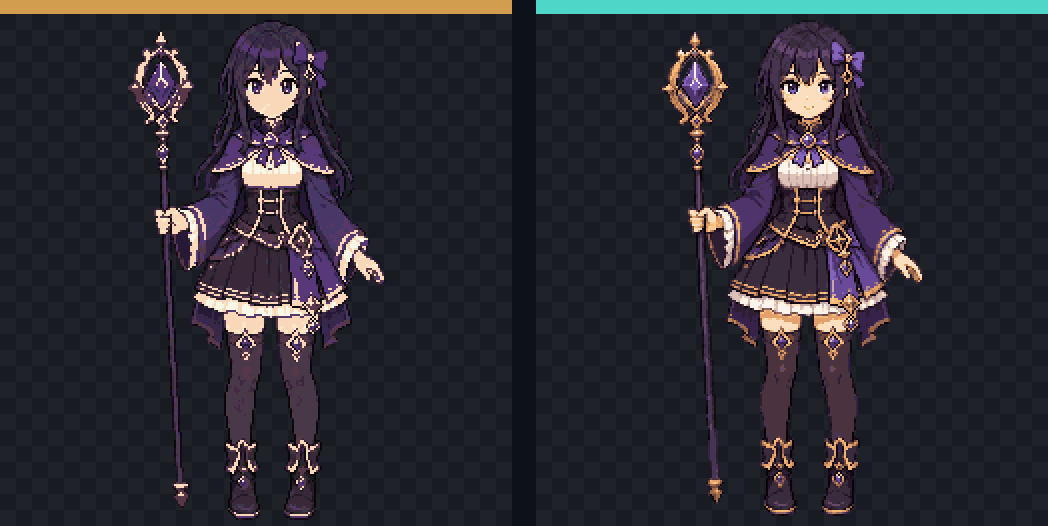
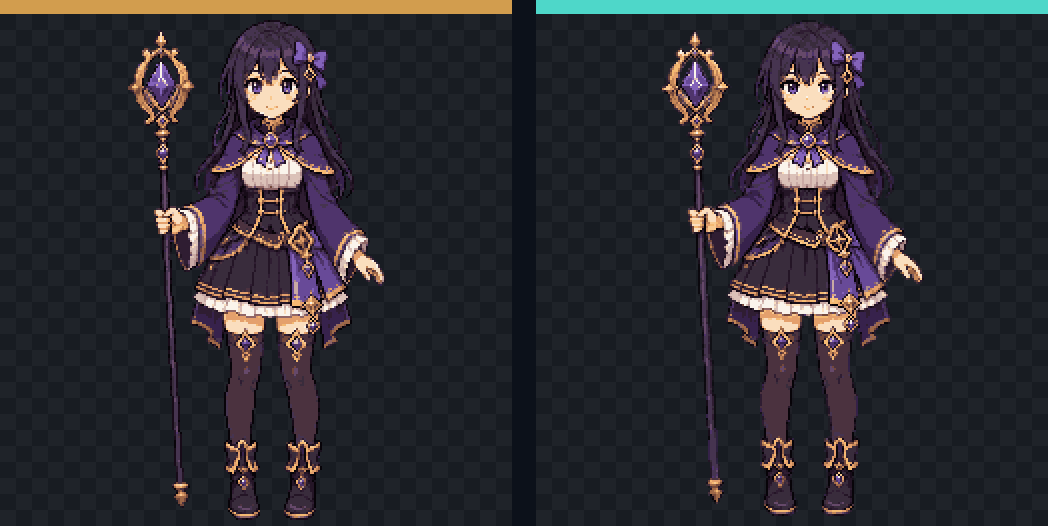
docs: clarify generated pixel art limitations

diff --git a/packages/pixel-core/src/pixel-art.ts b/packages/pixel-core/src/pixel-art.ts
@@ -817,37 +817,9 @@ export function pixelateAnimationFrames(frames: ImageData[], width: number, heig
   return { frames: resized.map((frame) => applyPerceptualPalette(frame, palette)), palette, grid: detectedGrid.detected ? detectedGrid : undefined };
 }
 
-export function naivePalette(frames: ImageData[], maxColors: number): RGB[] {
-  const buckets = new Map<string, { count: number; r: number; g: number; b: number }>();
-  const step = Math.max(1, Math.floor(Math.sqrt(frames.reduce((sum, frame) => sum + frame.width * frame.height, 0) / 20_000)));
-  for (const frame of frames) for (let y = 0; y < frame.height; y += step) for (let x = 0; x < frame.width; x += step) {
-    const offset = (y * frame.width + x) * 4;
-    if (frame.data[offset + 3] < 32) continue;
-    const r = frame.data[offset] & 0xf0; const g = frame.data[offset + 1] & 0xf0; const b = frame.data[offset + 2] & 0xf0;
-    const key = `${r},${g},${b}`; const bucket = buckets.get(key) || { count: 0, r, g, b };
-    bucket.count++; buckets.set(key, bucket);
-  }
-  return [...buckets.values()].sort((a, b) => b.count - a.count).slice(0, Math.max(2, maxColors)).map(({ r, g, b }) => [r + 8, g + 8, b + 8]);
-}
-
-export function naiveApplyPalette(source: ImageData, palette: RGB[]) {
-  const output = new ImageData(new Uint8ClampedArray(source.data), source.width, source.height);
-  for (let offset = 0; offset < output.data.length; offset += 4) {
-    if (output.data[offset + 3] < 16 || !palette.length) continue;
-    let best = palette[0]; let bestDistance = Infinity;
-    for (const color of palette) {
-      const distance = 2 * (output.data[offset] - color[0]) ** 2 + 4 * (output.data[offset + 1] - color[1]) ** 2 + 3 * (output.data[offset + 2] - color[2]) ** 2;
-      if (distance < bestDistance) { best = color; bestDistance = distance; }
-    }
-    output.data[offset] = best[0]; output.data[offset + 1] = best[1]; output.data[offset + 2] = best[2];
-  }
-  return output;
-}
-
-export function naivePixelateImageData(source: ImageData, width: number, height: number, paletteSize = 24) {
+export function naiveResizeImageData(source: ImageData, width: number, height: number) {
   const cropped = cropPixelArt(source, sharedContentBounds([source]));
   const scale = Math.min(width / cropped.width, height / cropped.height);
   const drawWidth = Math.max(1, Math.round(cropped.width * scale)); const drawHeight = Math.max(1, Math.round(cropped.height * scale));
-  const fitted = pasteCentered(nearestResize(cropped, drawWidth, drawHeight), width, height);
-  return naiveApplyPalette(fitted, naivePalette([fitted], paletteSize));
+  return pasteCentered(nearestResize(cropped, drawWidth, drawHeight), width, height);
 }

diff --git a/scripts/compare-pixel-pipelines.ts b/scripts/compare-pixel-pipelines.ts
@@ -2,7 +2,8 @@ import { mkdirSync, readFileSync, writeFileSync } from "node:fs";
 import { resolve } from "node:path";
 import { PNG } from "pngjs";
 import {
-  naivePixelateImageData,
+  applyPerceptualPalette,
+  naiveResizeImageData,
   pixelateImageData,
   removeChromaBackground,
   type PixelGridDetection,
@@ -111,13 +112,13 @@ const input = prepared.image;
 console.log(`Input preprocessing: ${prepared.background}`);
 
 for (const target of [64, 128, 256]) {
-  const naive = naivePixelateImageData(input, target, target, 24);
   const optimized = pixelateImageData(input, target, target, 24);
+  const naive = applyPerceptualPalette(naiveResizeImageData(input, target, target), optimized.palette);
   const optimizedUnquantized = pixelateImageData(input, target, target, 24, { quantize: false });
   writePng(resolve(outputDir, `naive-${target}.png`), naive);
   writePng(resolve(outputDir, `optimized-unquantized-${target}.png`), optimizedUnquantized.imageData);
   writePng(resolve(outputDir, `optimized-${target}.png`), optimized.imageData);
   const scale = Math.max(1, Math.floor(512 / target));
   writePng(resolve(outputDir, `comparison-${target}.png`), contactSheet(preview(naive, scale), preview(optimized.imageData, scale)));
-  console.log(`${target}x${target}: ${describeGrid(optimized.grid)}; ${optimized.palette.length} colors`);
+  console.log(`${target}x${target}: ${describeGrid(optimized.grid)}; shared ${optimized.palette.length}-color palette`);
 }

diff --git a/tests/core.test.ts b/tests/core.test.ts
@@ -8,7 +8,7 @@ import {
   dominantPalette,
   edgeAwareDownscale,
   frameDifference,
-  naivePixelateImageData,
+  naiveResizeImageData,
   pixelateAnimationFrames,
   pixelateImageData,
   prepareExternalVideoReference,
@@ -420,7 +420,7 @@ describe("local frame and pixel processing", () => {
     data.set([20, 20, 20, 255], (8 * 8 - 1) * 4);
     for (let y = 1; y < 7; y++) data.set([245, 245, 245, 255], (y * 8 + 3) * 4);
     const source = new ImageData(data, 8, 8);
-    const naive = naivePixelateImageData(source, 2, 2, 4);
+    const naive = naiveResizeImageData(source, 2, 2);
     const improved = edgeAwareDownscale(source, 2, 2);
     const naiveOpaque = [...naive.data].filter((_, index) => index % 4 === 3 && naive.data[index] > 0).length;
     const improvedOpaque = [...improved.data].filter((_, index) => index % 4 === 3 && improved.data[index] > 0).length;

diff --git a/packages/pixel-core/src/index.ts b/packages/pixel-core/src/index.ts
@@ -10,9 +10,7 @@ export {
   derivePerceptualPalette,
   detectPseudoPixelGrid,
   edgeAwareDownscale,
-  naiveApplyPalette,
-  naivePalette,
-  naivePixelateImageData,
+  naiveResizeImageData,
   pixelateAnimationFrames,
   pixelateImageData,
   type PixelArtProcessOptions,

diff --git a/README.md b/README.md
@@ -31,6 +31,26 @@ Pixelate fills the gap between image or video generation and a usable game asset
 
 No model API, provider account, or server-side media pipeline is required. Source files and project data stay on your device.
 
+## The problem: pixel-styled is not pixel-accurate
+
+State-of-the-art generators such as GPT Image 2, Nano Banana 2, Imagen 2, and similar models can create convincing *pixel-art-looking* images, but they are general-purpose image models—not deterministic sprite renderers. A prompt can describe the right style and dimensions while the returned raster still violates the structural constraints a game asset needs.
+
+For example, a request for a **256 × 256 pixel-art sprite** can arrive as a **1254 × 1254 image** containing an enlarged, irregular pseudo-pixel lattice. In the example below, the apparent grid is roughly **318 × 308** with low confidence—not the requested 256 × 256 native grid.
+
+| Requested | A generator may return | A production asset needs |
+| --- | --- | --- |
+| Exact 256 × 256 pixel art | A larger raster that only *looks* like 256 × 256 pixel art | Exactly 256 × 256 intentional output cells |
+| Uniform square pixels | Uneven cell widths, inconsistent spacing, or a warped lattice | One stable, aligned grid across the sprite |
+| One flat color per pixel | Multiple slightly different colors inside a single apparent pixel | Internally consistent cells and a controlled palette |
+| Crisp hard edges | Antialiasing, blur, halos, and partial-coverage edge pixels | Deliberate silhouettes and preserved one-pixel details |
+| Transparent or exact chroma background | Near-magenta/green backgrounds, residue, holes, or insufficient margins | Clean alpha with predictable edge treatment |
+| Consistent animation frames | Frame-to-frame shifts in scale, position, grid phase, and color | One crop, lattice, scale, and palette for the sequence |
+
+Simple resizing does not solve these problems. It can preserve the false lattice, miss thin features, flatten outlines, and amplify noisy colors. Pixelate instead detects the apparent grid, validates it, aligns one rigid lattice, samples edges deliberately, removes controlled chroma backgrounds, and quantizes the result into a stable palette.
+
+> [!NOTE]
+> Pixelate corrects raster structure; it does not redraw the subject. Semantic generation mistakes—incorrect anatomy, missing props, malformed objects, or the wrong pose—must be corrected in the source generator before import.
+
 | | |
 | --- | --- |
 | **Local-first by design** | Media processing happens in the browser. Project metadata uses IndexedDB, while source media uses OPFS when available. |
@@ -66,7 +86,7 @@ Perceptual palette generation and quantization
 PNG or sprite-sheet export
 ```
 
-The repository keeps visual regression fixtures for reviewing algorithm changes. The example begins with a magenta-keyed source image and compares a naïve nearest-neighbor pixelation baseline with Pixelate's optimized result. Both use the same transparent content crop, 256 × 256 canvas, and 24-color limit.
+The repository keeps visual regression fixtures for reviewing algorithm changes. The example begins with a magenta-keyed source image and compares a naïve nearest-neighbor pixelation baseline with Pixelate's optimized result. Both use the same transparent content crop, 256 × 256 canvas, and exact 24-color palette, isolating the spatial image-quality difference.
 
 <div align="center">
   <p><strong>Example source</strong></p>

diff --git a/docs/pixel-processing.md b/docs/pixel-processing.md
@@ -2,11 +2,10 @@
 
 ## Why this pipeline
 
-A naïve pixelation approach resizes the source with nearest-neighbour sampling,
-keeps the most frequent RGB buckets, and maps every output pixel to the nearest
-bucket. It is deterministic and fast, but can lose thin outlines, eyes, weapon
-edges, and rare highlight colors. Enlarged AI-generated "pixel art" can also
-retain false sub-pixel texture instead of recovering a stable source grid.
+A naïve pixelation approach resizes the source with nearest-neighbour sampling.
+It is deterministic and fast, but can lose thin outlines, eyes, weapon edges,
+and rare highlights. Enlarged AI-generated "pixel art" can also retain false
+sub-pixel texture instead of recovering a stable source grid.
 
 ## Optimized pipeline
 
@@ -50,7 +49,9 @@ pnpm compare:pixels
 ```
 
 The command processes `public/assets/demo-alchemist.png` through a naïve
-nearest-neighbor baseline and Pixelate at 64×64, 128×128, and 256×256. Standalone outputs and
+nearest-neighbor baseline and Pixelate at 64×64, 128×128, and 256×256. Both
+results use the exact palette derived by Pixelate, so the comparison isolates
+spatial reconstruction quality. Standalone outputs and
 side-by-side contact sheets are written to
 `docs/comparisons/pixel-pipeline/`. In contact sheets, amber identifies the
 naïve baseline and teal identifies Pixelate.
